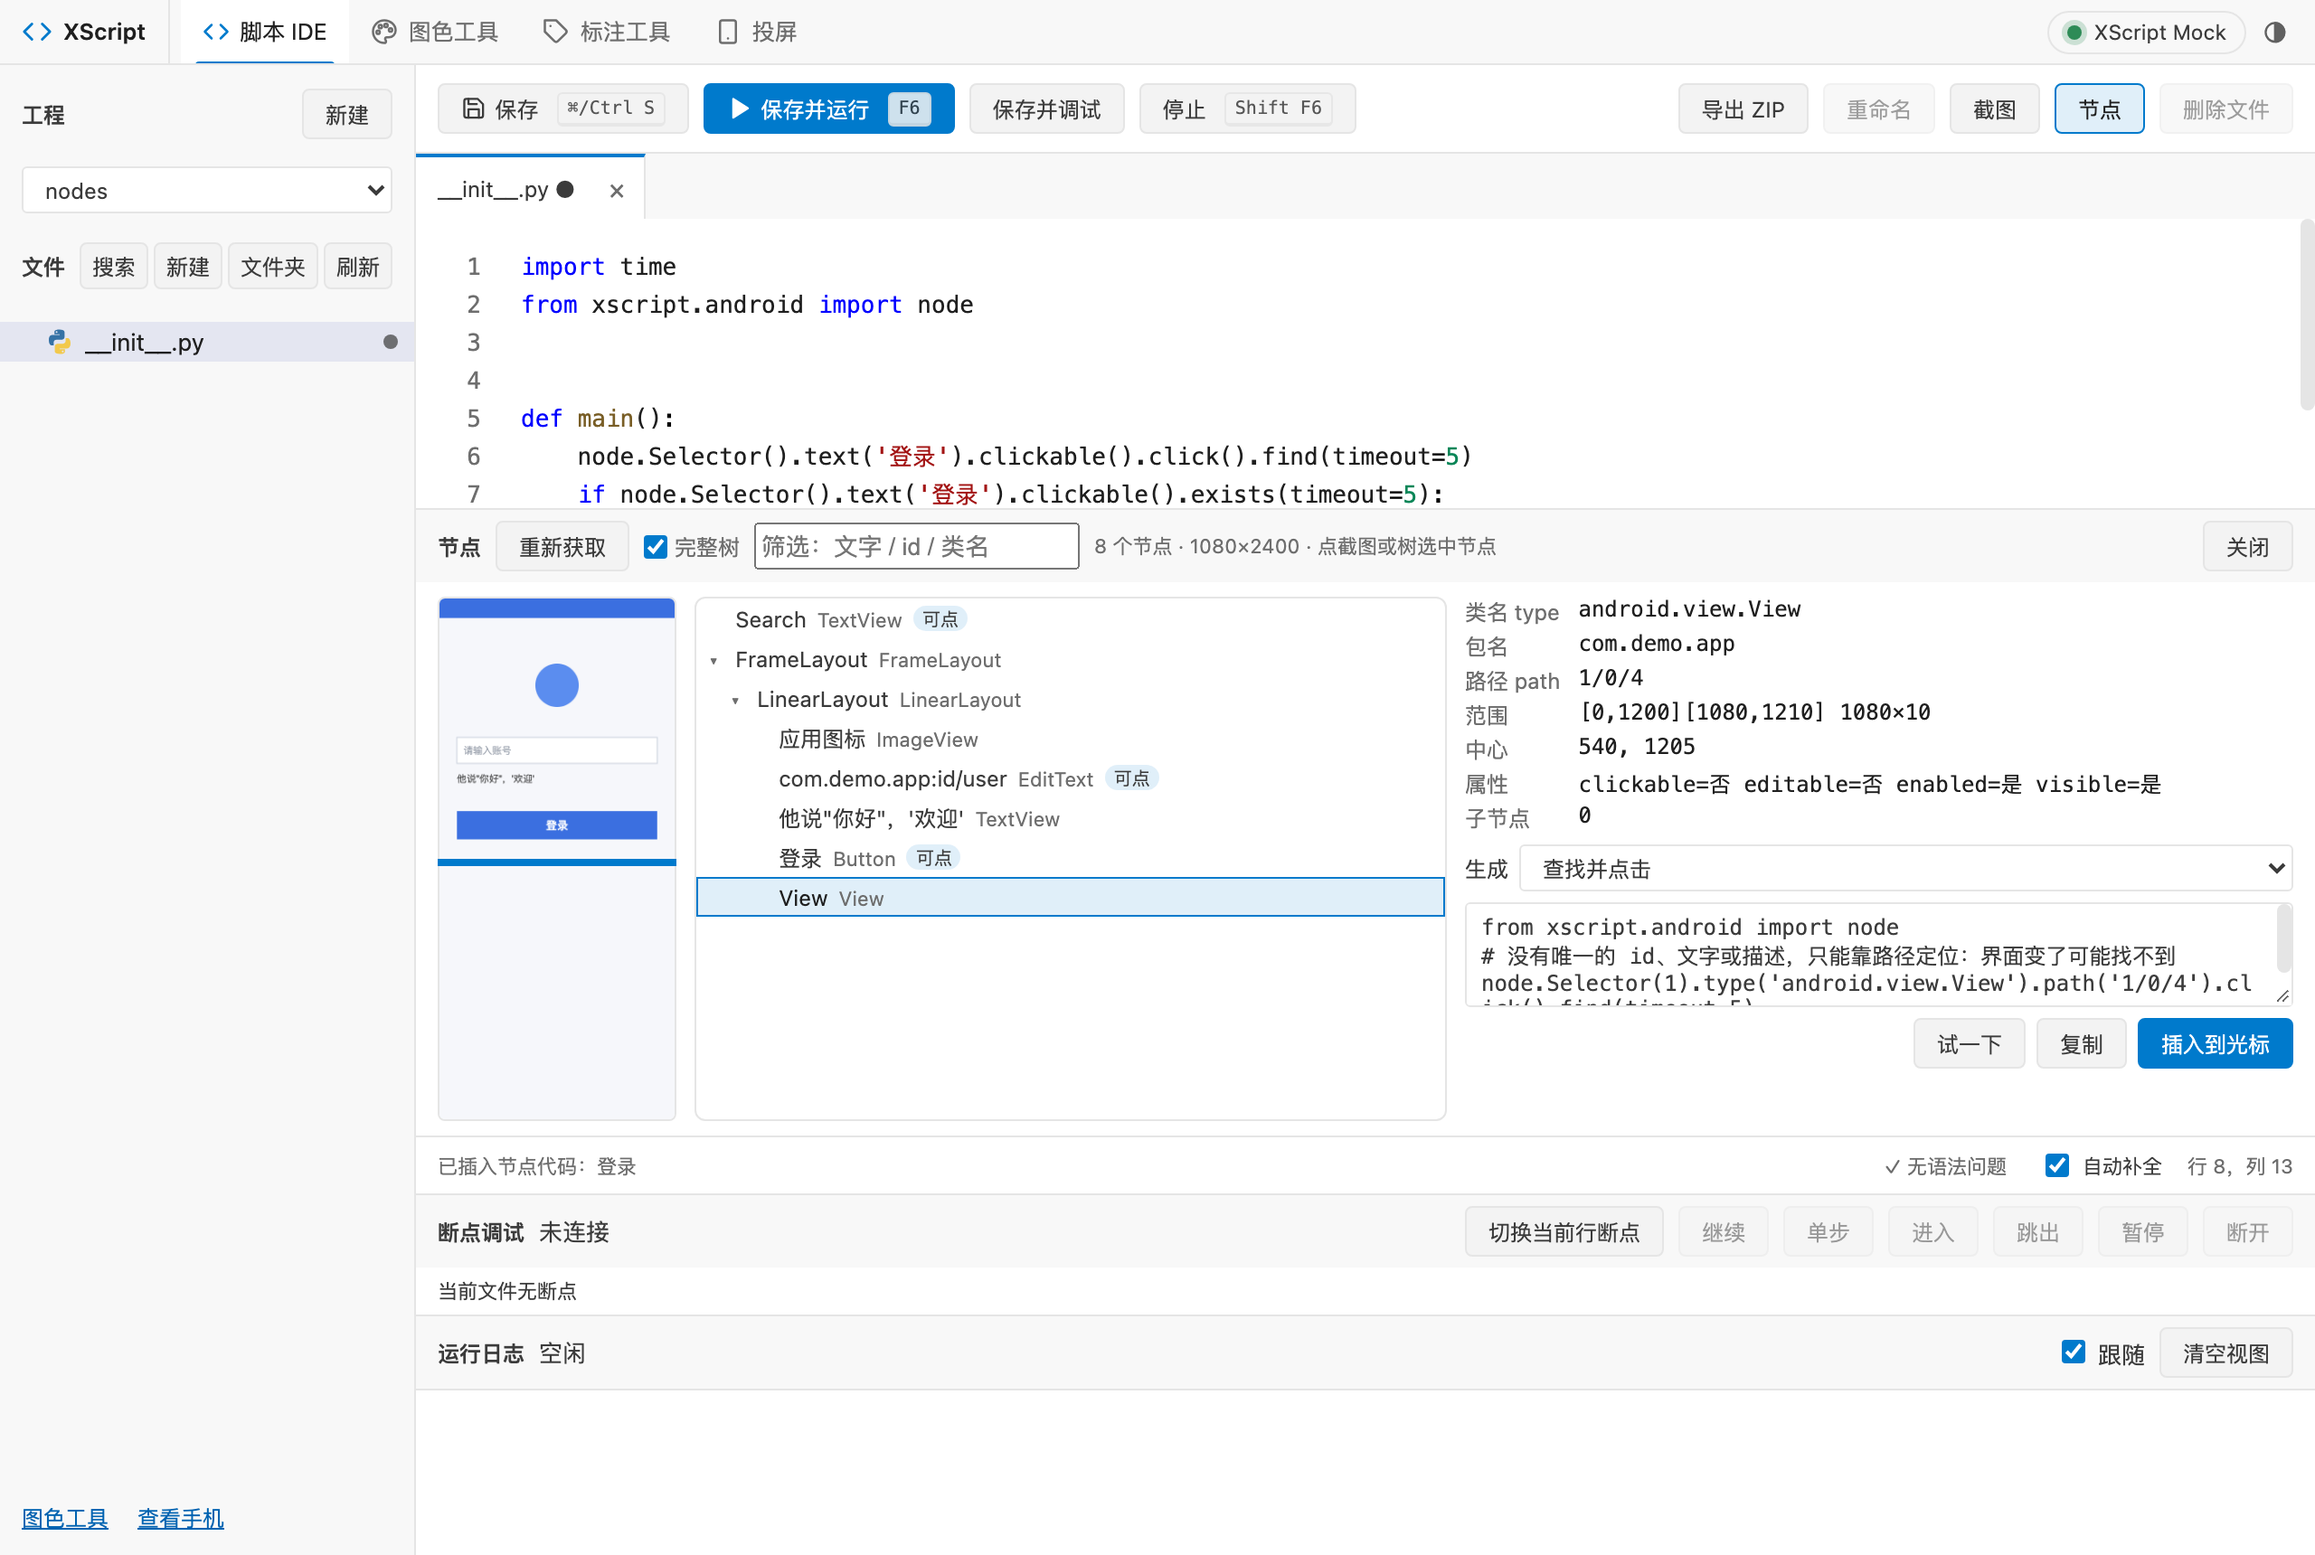
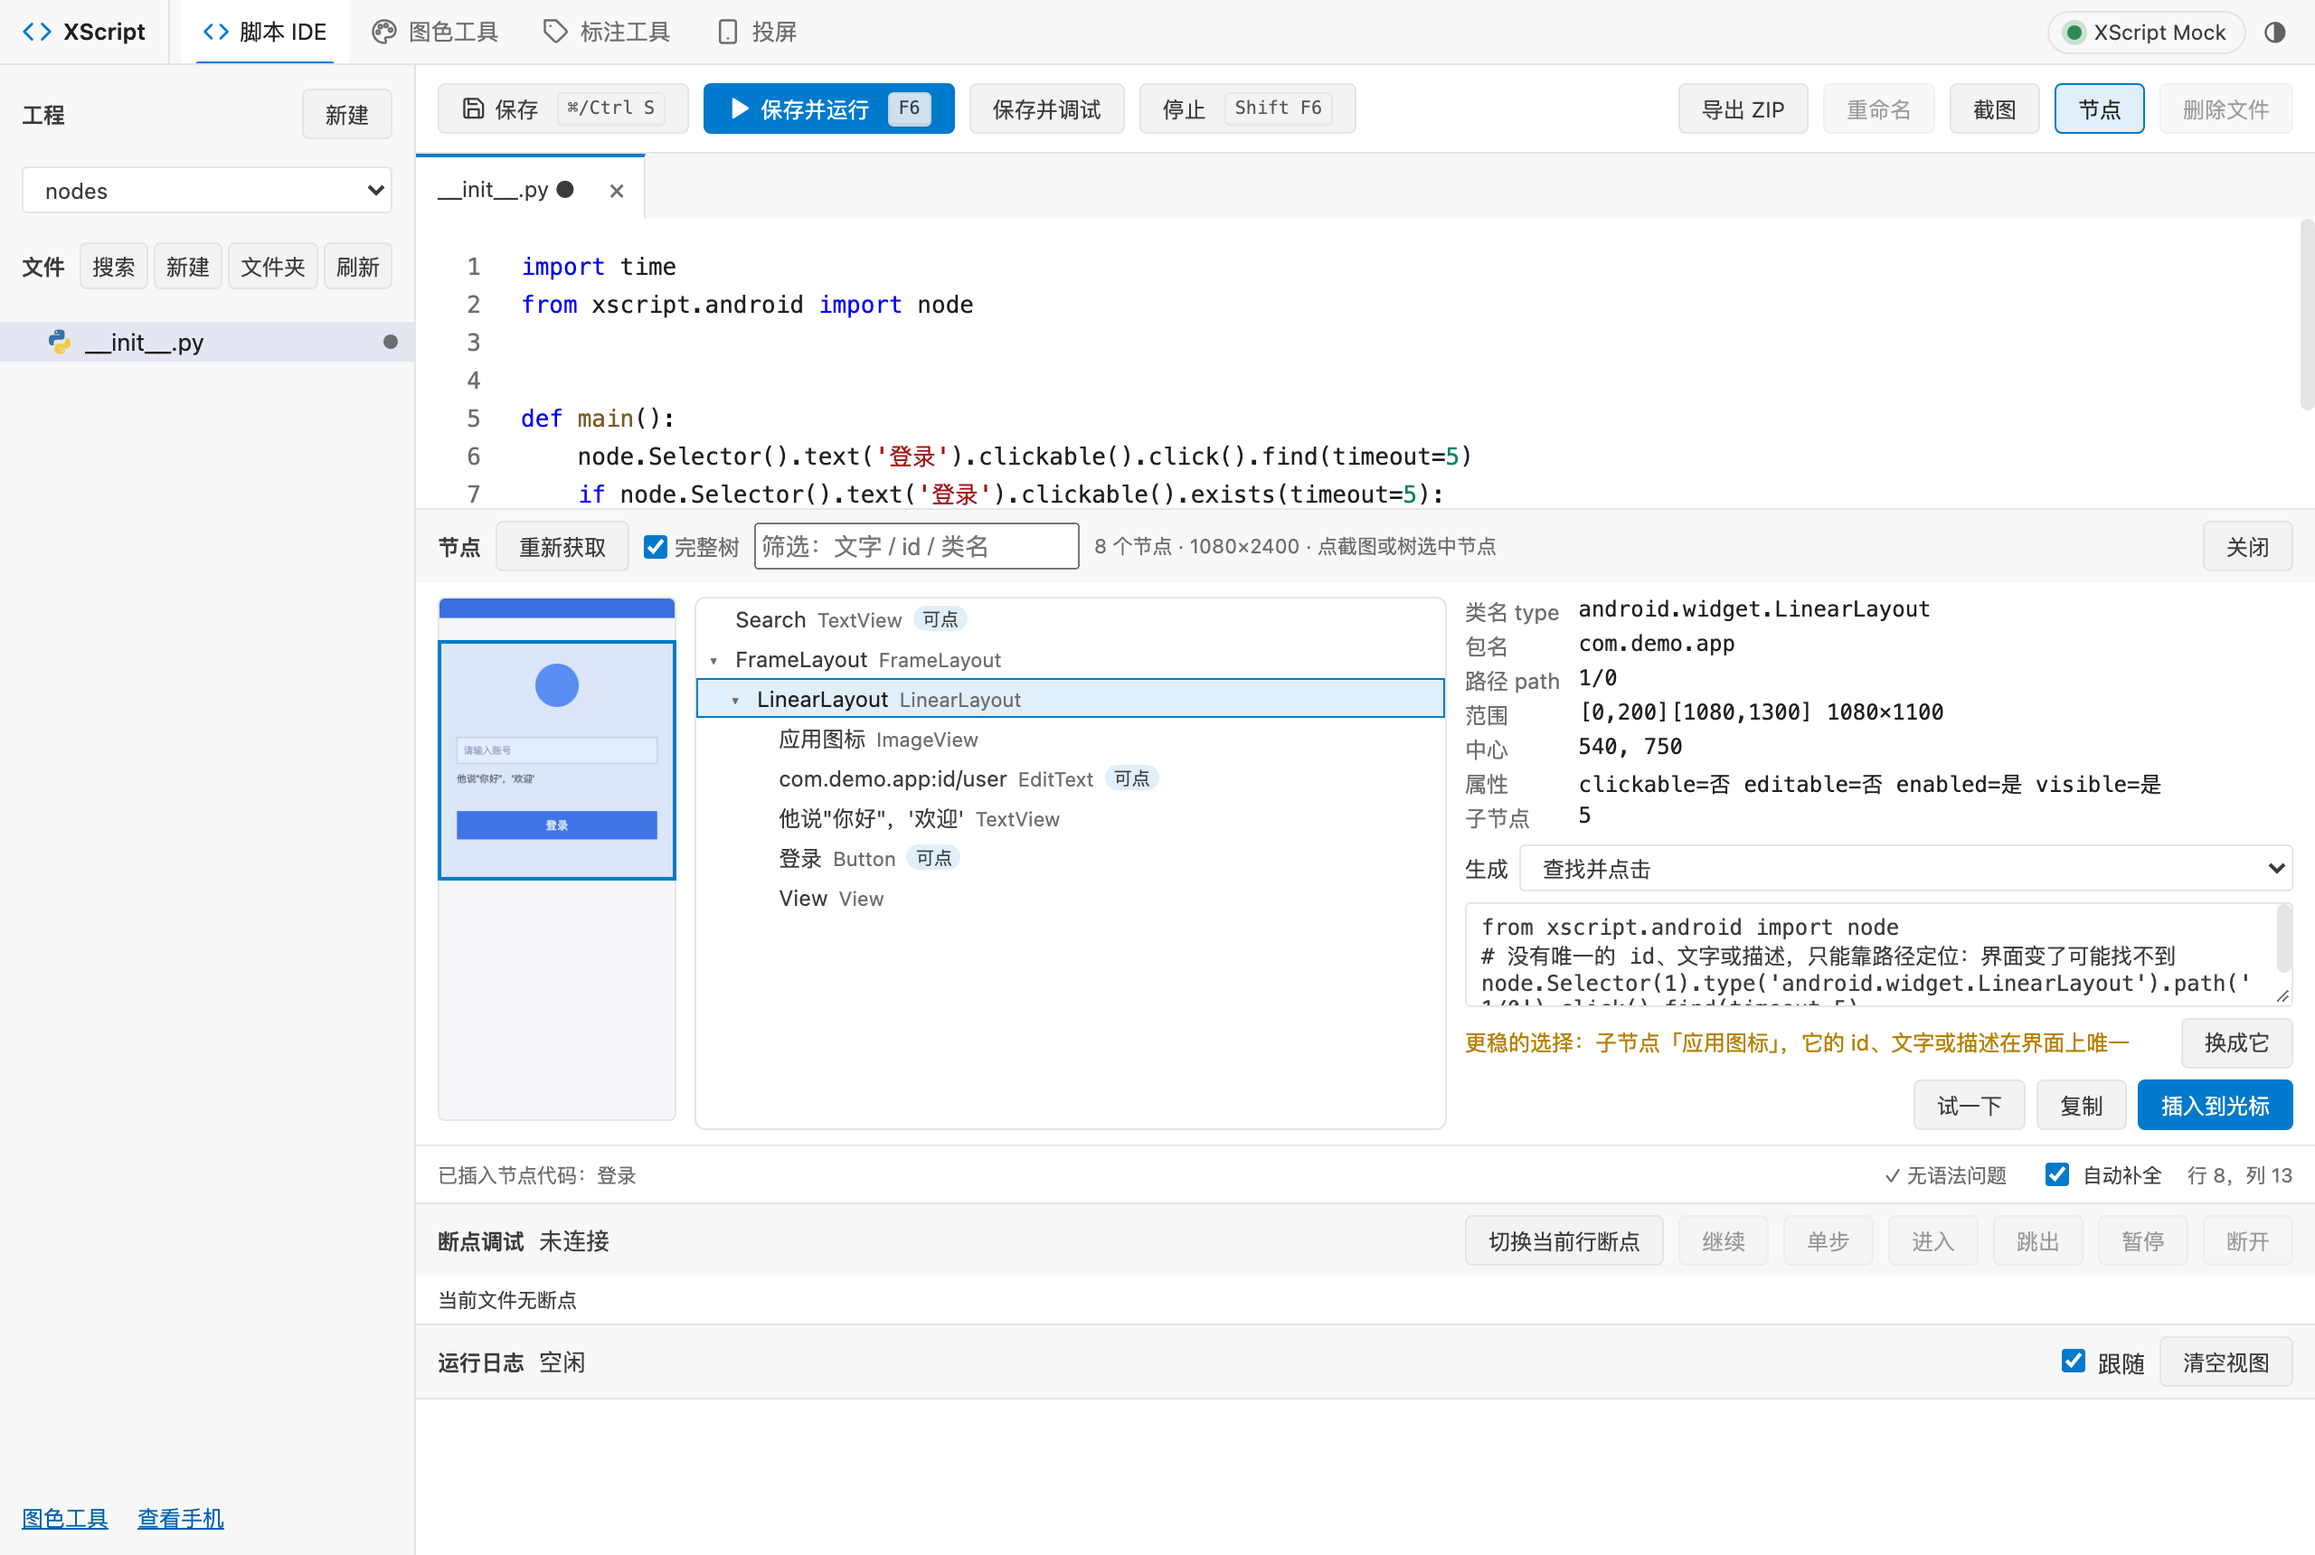
feat(selector): offer a stable child or parent when only the path pins the node

diff --git a/android/app/src/main/assets/tools/editor-nodes.js b/android/app/src/main/assets/tools/editor-nodes.js
@@ -121,6 +121,22 @@
   const FRAGILE = "# 没有唯一的 id、文字或描述，只能靠路径定位：界面变了可能找不到\n";
   const fragile = (n, roots) => selectorFields(n, roots).includes("path");
 
+  /** For a node only its path can pin: the closest node that has a selector without the path, as {node, rel}. Children
+   *  first (a list row's title), then parents (the button around an icon); at most 3 levels away. Siblings are other
+   *  controls, so they are never offered. null when the node is stable already or nothing around it is. */
+  function stableAlternative(n, roots) {
+    if (!roots || !fragile(n, roots)) return null;
+    const ok = c => c !== n && !fragile(c, roots);
+    let level = n.children || [];
+    for (let d = 0; d < 3 && level.length; d++) {
+      const hit = level.find(ok); if (hit) return {node: hit, rel: "子节点"};
+      level = level.flatMap(c => c.children || []);
+    }
+    const up = ancestry(roots, n).slice(0, -1).reverse().slice(0, 3);
+    const parent = up.find(ok);
+    return parent ? {node: parent, rel: "父节点"} : null;
+  }
+
   const center = r => r ? {x: Math.round((r.l + r.r) / 2), y: Math.round((r.t + r.b) / 2)} : null;
 
   const KINDS = [
@@ -203,7 +219,7 @@
     return {left: r.l / w * 100 + "%", top: r.t / h * 100 + "%", width: (r.r - r.l) / w * 100 + "%", height: (r.b - r.t) / h * 100 + "%"};
   }
 
-  const EditorNodes = {hitTest, ancestry, rows, count, label, pyStr, xpathStr, selectorChain, nodeXPath, center, KINDS, snippet, fullText, tryCode, tryVerdict, fragile, FRAGILE, importEdit, attrs, boxStyle, shortType};
+  const EditorNodes = {hitTest, ancestry, rows, count, label, pyStr, xpathStr, selectorChain, nodeXPath, center, KINDS, snippet, fullText, tryCode, tryVerdict, fragile, FRAGILE, stableAlternative, importEdit, attrs, boxStyle, shortType};
 
   // ---- browser dock ----
   // ctx: {message(text, error), insertCode(code, imports) -> bool, onOpen()}
@@ -224,6 +240,9 @@
       const s = current();
       $("node-code").value = s ? fullText(s) : "";
       $("node-copy").disabled = $("node-insert").disabled = !s;
+      const alt = n && st.tree ? stableAlternative(n, st.tree.roots) : null;
+      $("node-alt").hidden = !alt; st.alt = alt && alt.node;
+      if (alt) $("node-alt-text").textContent = "更稳的选择：" + alt.rel + "「" + label(alt.node) + "」，它的 id、文字或描述在界面上唯一";
       $("node-try").disabled = !n || !tryCode(n, $("node-kind").value, mode(), st.tree && st.tree.roots);
       clearTry();
       const box = $("node-box"), css = n && st.tree && boxStyle(n.rect, st.tree.width, st.tree.height);
@@ -329,6 +348,7 @@
     $("node-close").addEventListener("click", () => setOpen(false));
     $("node-take").addEventListener("click", take);
     $("node-try").addEventListener("click", tryIt);
+    $("node-alt-use").addEventListener("click", () => { if (st.alt) select(st.alt, {reveal: true, focus: true}); });
     $("node-full").addEventListener("change", take);
     $("node-filter").addEventListener("input", renderTree);
     $("node-kind").addEventListener("change", () => { try { localStorage.setItem("xs-node-kind", $("node-kind").value); } catch (e) { /* storage off */ } renderDetail(); });

diff --git a/desktop/frontend/src/ui-tree.ts b/desktop/frontend/src/ui-tree.ts
@@ -154,9 +154,36 @@ export function selectorFragile(node: UiNode, roots?: UiNode[]): boolean {
   return selectorFields(node, roots).includes("path");
 }
 
+/** For a node only its path can pin: the closest node with a selector without the path, as {node, rel}. Children first,
+ *  then parents; at most 3 levels away (siblings are other controls, never offered). Same rule as the Web IDE node tool's 更稳的选择. */
+export function stableAlternative(node: UiNode, roots?: UiNode[]): { node: UiNode; rel: string } | null {
+  if (!roots || !selectorFragile(node, roots)) return null;
+  const ok = (c: UiNode) => c !== node && !selectorFragile(c, roots);
+  let level = node.children ?? [];
+  for (let d = 0; d < 3 && level.length; d += 1) {
+    const hit = level.find(ok);
+    if (hit) return { node: hit, rel: "子节点" };
+    level = level.flatMap((c) => c.children ?? []);
+  }
+  const trail: UiNode[] = [];
+  const walk = (n: UiNode): boolean => {
+    trail.push(n);
+    if (n === node || (n.children ?? []).some(walk)) return true;
+    trail.pop();
+    return false;
+  };
+  roots.some(walk);
+  const up = trail.slice(0, -1).reverse().slice(0, 3);
+  const parent = up.find(ok);
+  return parent ? { node: parent, rel: "父节点" } : null;
+}
+
 /** A Selector() chain: resource id, text, content-desc as needed to be unique in `roots`, else class + path. */
 export function selectorCode(node: UiNode, roots?: UiNode[]): string {
-  const note = selectorFragile(node, roots) ? FRAGILE_NOTE : "";
+  const alt = stableAlternative(node, roots);
+  const note = selectorFragile(node, roots)
+    ? FRAGILE_NOTE + (alt ? `# 更稳的选择：${alt.rel}「${nodeLabel(alt.node).replace(/\s+/g, " ")}」\n` : "")
+    : "";
   return `from xscript.android import node\n${note}${selectorChain(node, "node", roots)}.find(timeout=5)`;
 }
 

diff --git a/desktop/frontend/tests/ui-tree.test.ts b/desktop/frontend/tests/ui-tree.test.ts
@@ -53,6 +53,14 @@ describe("ui tree", () => {
     // code that only the path can pin says so; a unique id / text does not
     expect(selectorCode(listAt("0/3"), listRoots)).toBe("from xscript.android import node\n" + FRAGILE_NOTE + "node.Selector().id('android:id/title').text('Battery').path('0/3').find(timeout=5)");
     expect(selectorCode(listAt("0/1"), listRoots)).not.toContain("#");
+    // a row without id / text: the code names its title as the more stable choice (children first, then parents)
+    const rowTree: UiNode[] = [{ path: "0", type: "android.widget.FrameLayout", children: [
+      { path: "0/0", type: "android.widget.LinearLayout", clickable: true, children: [{ path: "0/0/0", type: "android.widget.TextView", text: "Display" }] },
+      { path: "0/1", id: "com.demo:id/share", type: "android.widget.Button", children: [{ path: "0/1/0", type: "android.widget.ImageView" }] },
+    ] }];
+    expect(selectorCode(rowTree[0].children![0], rowTree)).toBe("from xscript.android import node\n" + FRAGILE_NOTE + "# 更稳的选择：子节点「Display」\nnode.Selector().type('android.widget.LinearLayout').path('0/0').clickable().find(timeout=5)");
+    expect(selectorCode(rowTree[0].children![1].children![0], rowTree)).toContain("# 更稳的选择：父节点「com.demo:id/share」\n");
+    expect(selectorCode(listAt("0/3"), listRoots)).not.toContain("更稳的选择");
     // A clock's text changes every minute: never filter on it, pin a shared clock id with the path instead.
     const clock = (path: string): UiNode => ({ path, id: "com.android.systemui:id/clock", text: "1:57", desc: "1:57 AM", type: "android.widget.TextView" });
     const clocks: UiNode[] = [{ path: "0", children: [clock("0/0"), clock("0/1")] }];

diff --git a/android/app/src/main/assets/tools/editor.html b/android/app/src/main/assets/tools/editor.html
@@ -56,6 +56,7 @@
     <div class="node-detail"><dl id="node-attrs" class="node-attrs"></dl>
      <div class="node-code-row"><label for="node-kind">生成</label><select id="node-kind"></select></div>
      <textarea id="node-code" readonly rows="3" aria-label="生成的代码" spellcheck="false"></textarea>
+     <p id="node-alt" class="node-alt" hidden><span id="node-alt-text"></span><button id="node-alt-use" type="button" title="选中这个节点，按它生成代码">换成它</button></p>
      <div class="node-actions"><span id="node-try-result" class="node-try-result" role="status" aria-live="polite"></span><button id="node-try" type="button" disabled title="在手机上按这段代码的条件查找一次（不会点击），截图上框出找到的节点">试一下</button><button id="node-copy" type="button" disabled>复制</button><button id="node-insert" type="button" class="primary" disabled title="插入到编辑器光标处，缺少的 import 加到文件开头（树里按 Enter 也可以）">插入到光标</button></div>
     </div>
    </div>

diff --git a/android/app/src/main/assets/tools/editor.css b/android/app/src/main/assets/tools/editor.css
@@ -194,6 +194,9 @@
 .node-box[hidden] { display:none; }
 .node-hit { position:absolute; box-sizing:border-box; border:2px dashed var(--bad); pointer-events:none; }
 .node-hit.self { border-color:var(--ok); }
+.node-alt { display:flex; align-items:center; gap:6px; margin:0; font-size:12px; line-height:1.4; color:var(--warn); }
+.node-alt[hidden] { display:none; }
+.node-alt span { flex:1; min-width:0; }
 .node-try-result { flex:1; min-width:0; font-size:12px; line-height:1.4; color:var(--muted); }
 .node-try-result.ok { color:var(--ok); }
 .node-try-result.error { color:var(--bad); }

diff --git a/docs/使用手册.md b/docs/使用手册.md
@@ -294,9 +294,9 @@ http://127.0.0.1:9860/tools/
 
   ![节点工具：左边截图框出「登录」按钮，中间节点树，右边属性、生成的「查找并点击」代码和「试一下」的结果（模拟设备）](images/ide-nodes.png)
 
-  选中的控件没有唯一的 id、文字或描述、只能靠路径定位时，生成的代码前面多一行注释 `# 没有唯一的 id、文字或描述，只能靠路径定位：界面变了可能找不到`，提醒换一个更稳的控件（比如它带文字的父控件或旁边的按钮）。桌面端控件检查生成的代码也一样。
+  选中的控件没有唯一的 id、文字或描述、只能靠路径定位时，生成的代码前面多一行注释 `# 没有唯一的 id、文字或描述，只能靠路径定位：界面变了可能找不到`，提醒换一个更稳的控件。如果它的子节点（往下 3 层内）或父节点（往上 3 层内）有唯一的 id、文字或描述，代码下面会提示 **更稳的选择**（先找子节点，比如列表行里的标题；再找父节点，比如图标外面的按钮；不会推荐旁边的其它控件），点 **换成它** 直接选中那个节点。桌面端控件检查生成的代码也一样：多一行 `# 更稳的选择：子节点「…」` 注释。
 
-  ![节点工具：完整树里选中一个没有 id 和文字的 View，生成的代码带路径提醒（模拟设备）](images/ide-nodes-fragile.png)
+  ![节点工具：完整树里选中一个没有 id 和文字的 LinearLayout，生成的代码带路径提醒，下面提示更稳的选择「应用图标」（模拟设备）](images/ide-nodes-fragile.png)
 - **自动补全**：输入时自动弹出（至少 2 个字符，或在 `.` 之后），也可以随时按 **Ctrl/Cmd+空格**（或 Alt+/）；↑/↓ 选择，Enter 或 Tab 接受，Esc 关闭，也可以直接点击。内容来自设备运行时自带的 `xscript.*`、`ascript.*` 接口索引（离线可用，带签名和说明），覆盖：`import` 和 `from ... import` 的模块路径和成员、`模块.` 和 `类.` 之后的成员、`x = SomeClass(...)` 之后的 `x.`、当前文件里的 import 和 def/class/变量、内置函数、关键字、文件里出现过的单词。在字符串和注释里不弹出；状态栏的 **自动补全** 复选框可以关掉自动弹出（偏好保存在浏览器里），快捷键仍可用。补全不做类型推断，只认上面这些写法。
 - **参数提示**：输入函数调用的 `(` 之后，编辑器上方显示该函数的签名，当前参数加下划线（按位置、`名字=` 或 `*args` 判断，嵌套调用和多行调用都认），下方是文档第一段。光标离开括号、按 Esc 或失去焦点时关闭；**Ctrl/Cmd+Shift+空格** 随时手动打开。状态栏的 **自动补全** 关掉后不自动出现，快捷键仍可用。
 
